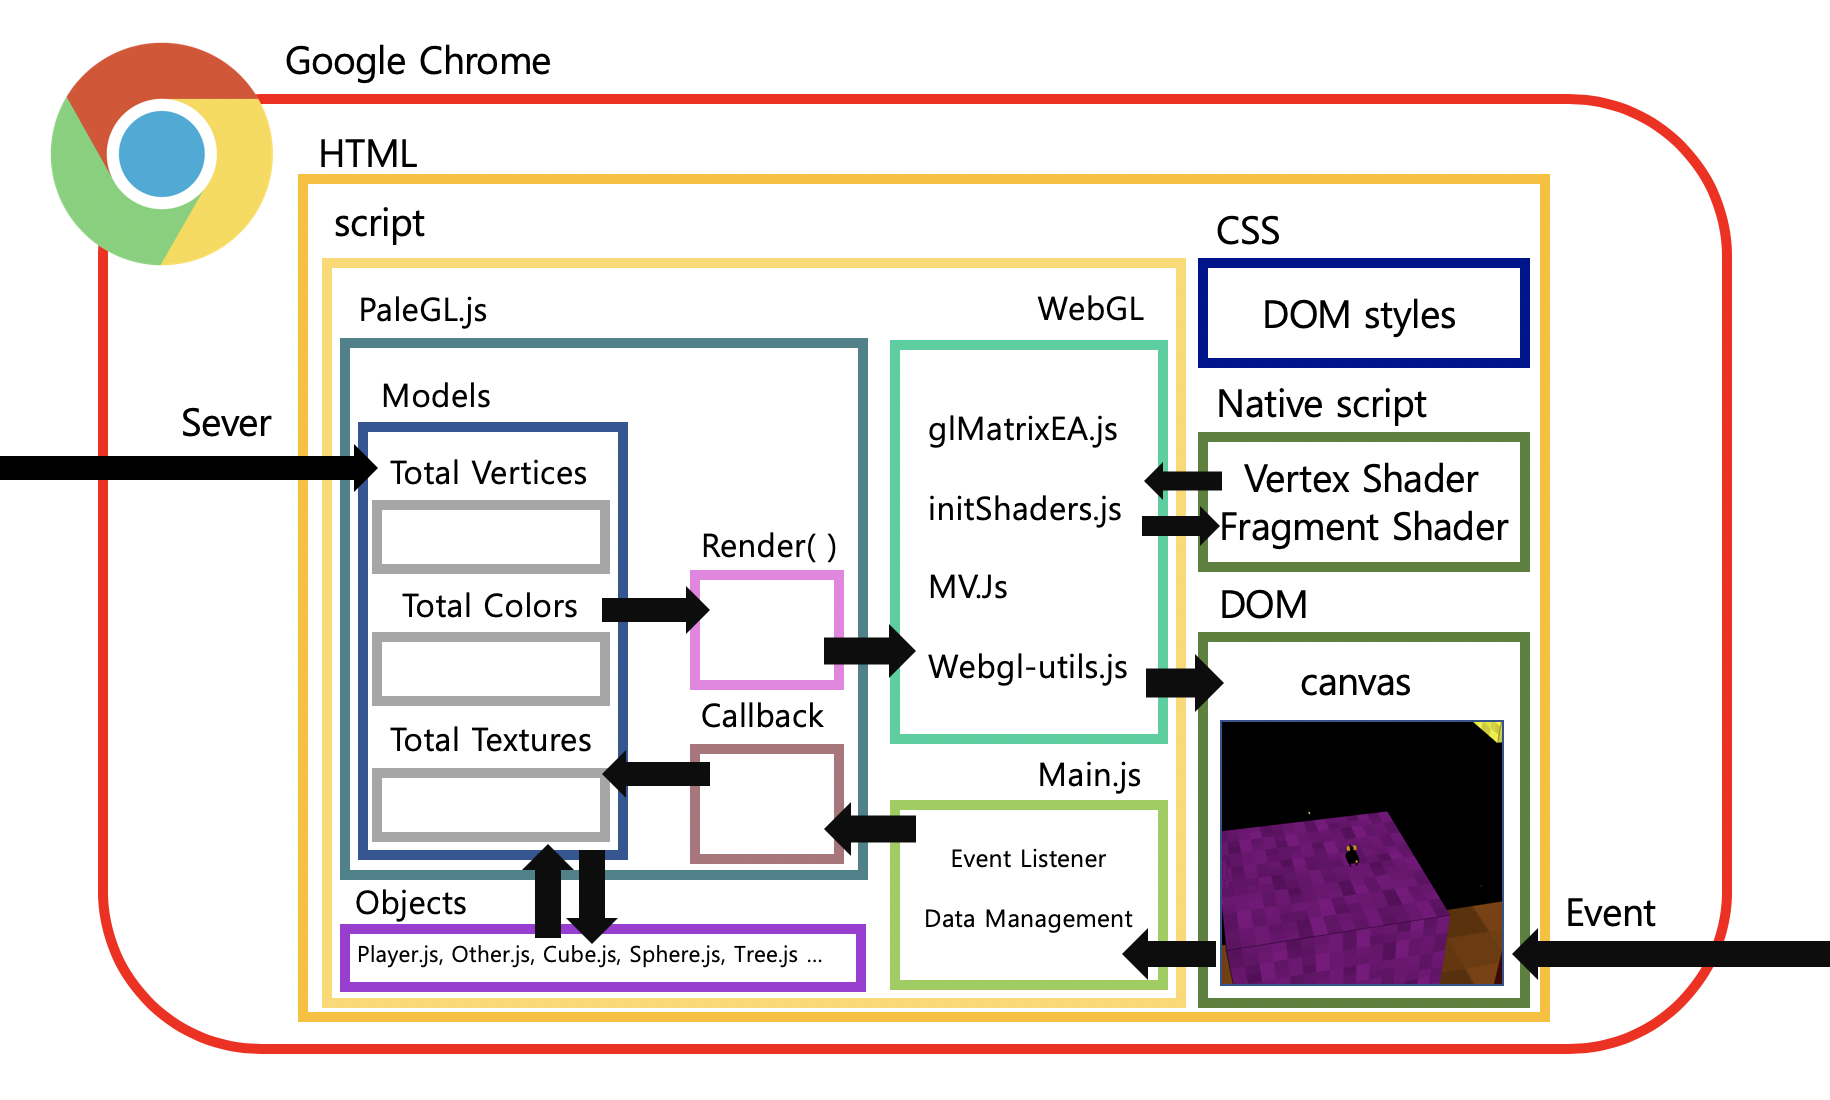
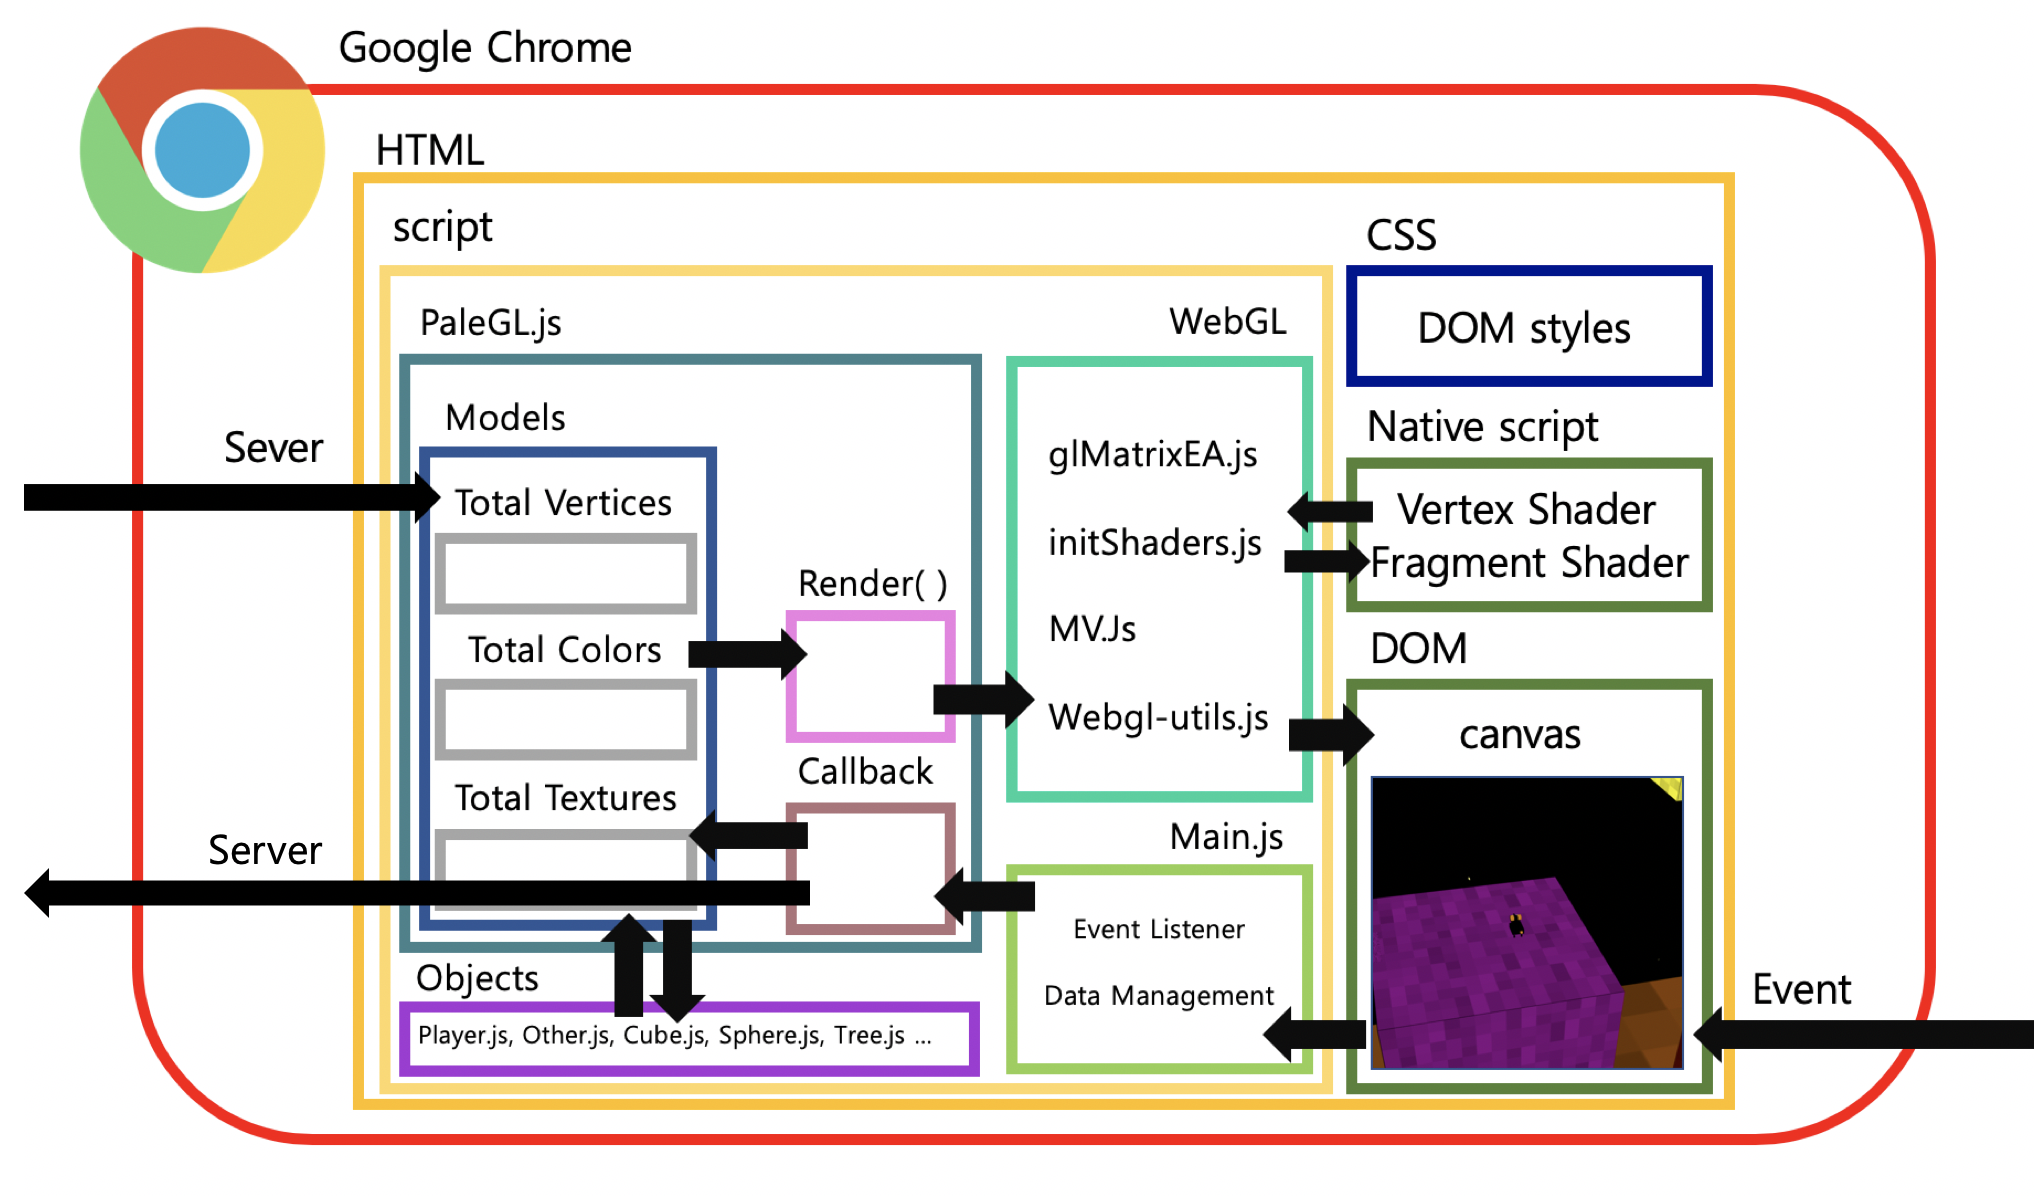
sdd

Changed region(s): [[0.0, 0.0, 0.9656, 0.9582], [0.8721, 0.9273, 0.9033, 0.9582]]

diff --git a/project2/README.md b/project2/README.md
@@ -30,9 +30,7 @@ URL 접속 후, 안전하지 않은 javascript를 허용해주세요.
 ![](Information/client.png)
 
 #### Server
-```
-준비중
-```
+![](Information/server.png)
 
 ### Used Algorithm
 ```
